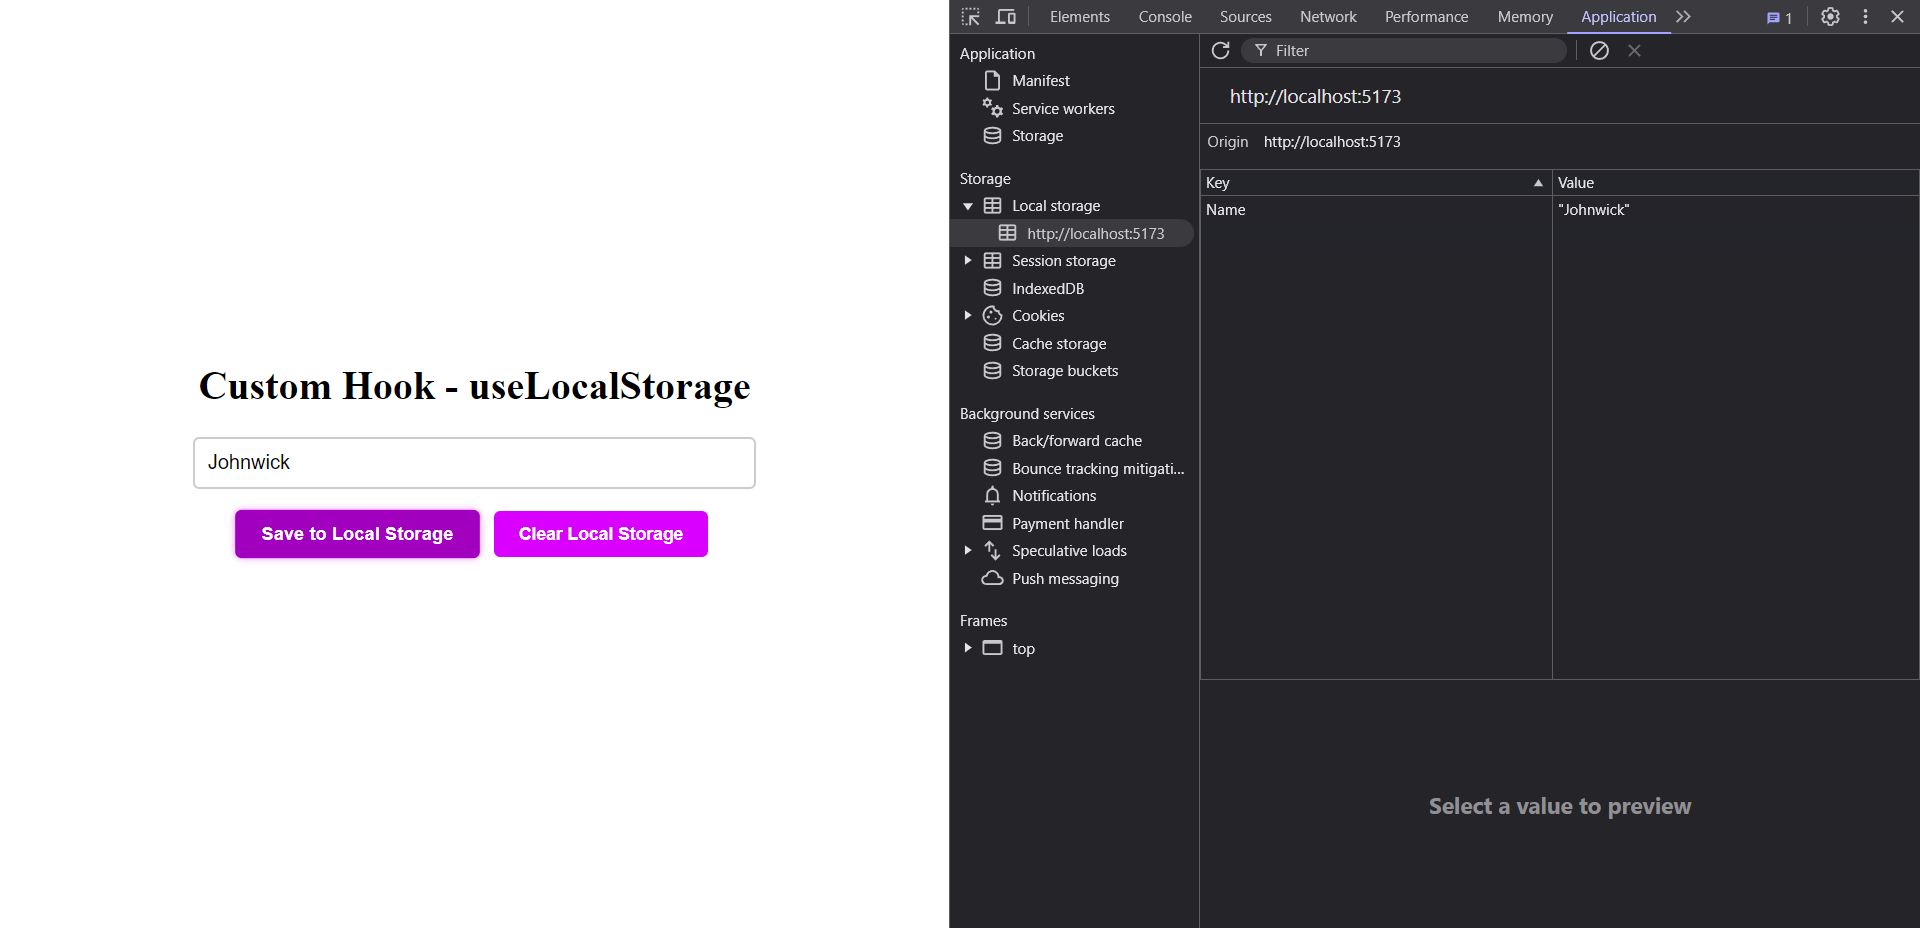
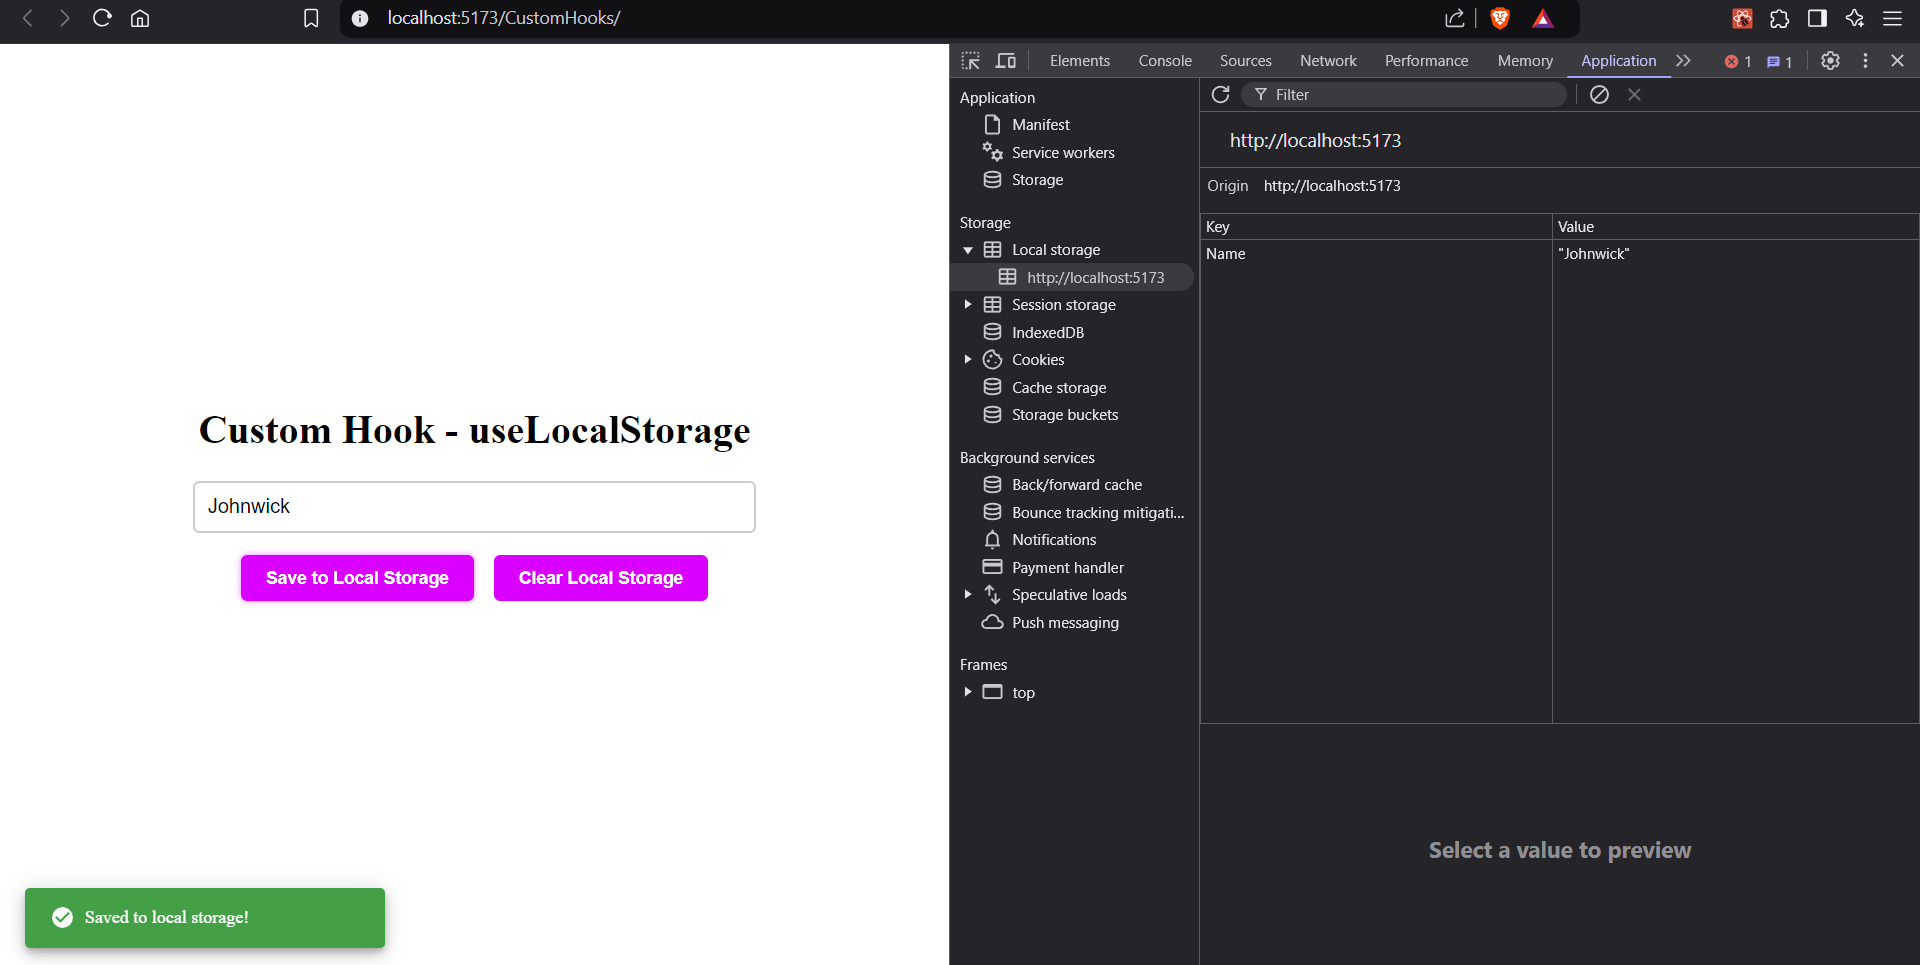
Added Notistack notifications

diff --git a/src/lib/useLocalStorage.js b/src/lib/useLocalStorage.js
@@ -1,4 +1,5 @@
 import { useState, useCallback } from "react";
+import { useSnackbar } from "notistack";
 
 function getSavedValue(key, initialValue) {
     try {
@@ -12,21 +13,24 @@ function getSavedValue(key, initialValue) {
 }
 
 export default function useLocalStorage(key, initialValue) {
+    const { enqueueSnackbar } = useSnackbar();
     const [value, setValue] = useState(() => getSavedValue(key, initialValue));
 
     const updateLocalStorage = useCallback((newValue) => {
         setValue((prevValue) => {
             if (prevValue !== newValue) {
                 localStorage.setItem(key, JSON.stringify(newValue));
+                enqueueSnackbar("Saved to local storage!", { variant: "success" });
             }
             return newValue;
         });
-    }, [key]);
+    }, [key, enqueueSnackbar]);
 
     const clearValue = useCallback(() => {
         localStorage.removeItem(key);
         setValue(initialValue); // Reset to initial value in state as well
-    }, [key, initialValue]);
+        enqueueSnackbar("Cleared from local storage!", { variant: "info" });
+    }, [key, initialValue, enqueueSnackbar]);
 
     return [value, updateLocalStorage, clearValue];
 }

diff --git a/src/App.jsx b/src/App.jsx
@@ -3,7 +3,7 @@ import './App.css';
 import useLocalStorage from './lib/useLocalStorage';
 
 function App() {
-  const [name, setName, clearName] = useLocalStorage("Name", ""); // Local storage hook
+  const [name, setName, clearName] = useLocalStorage("Name", "");
   const [inputValue, setInputValue] = useState(name);
 
   return (
@@ -14,10 +14,10 @@ function App() {
           type="text"
           placeholder="Enter the text to save"
           value={inputValue}
-          onChange={(e) => setInputValue(e.target.value)} // Updating the Input as user types
+          onChange={(e) => setInputValue(e.target.value)}
         />
         <div>
-          <button className='buttons' onClick={() => setName(inputValue)}>Save to Local Storage</button >
+          <button className='buttons' onClick={() => setName(inputValue)}>Save to Local Storage</button>
           <button className='buttons' onClick={clearName}>Clear Local Storage</button>
         </div>
       </div>

diff --git a/src/main.jsx b/src/main.jsx
@@ -1,9 +1,9 @@
-import { StrictMode } from 'react'
 import { createRoot } from 'react-dom/client'
-import App from './App.jsx'
+import App from './App.jsx';
+import { SnackbarProvider } from 'notistack';
 
 createRoot(document.getElementById('root')).render(
-  <StrictMode>
+  <SnackbarProvider maxSnack={2}>
     <App />
-  </StrictMode>,
+  </SnackbarProvider>
 )
